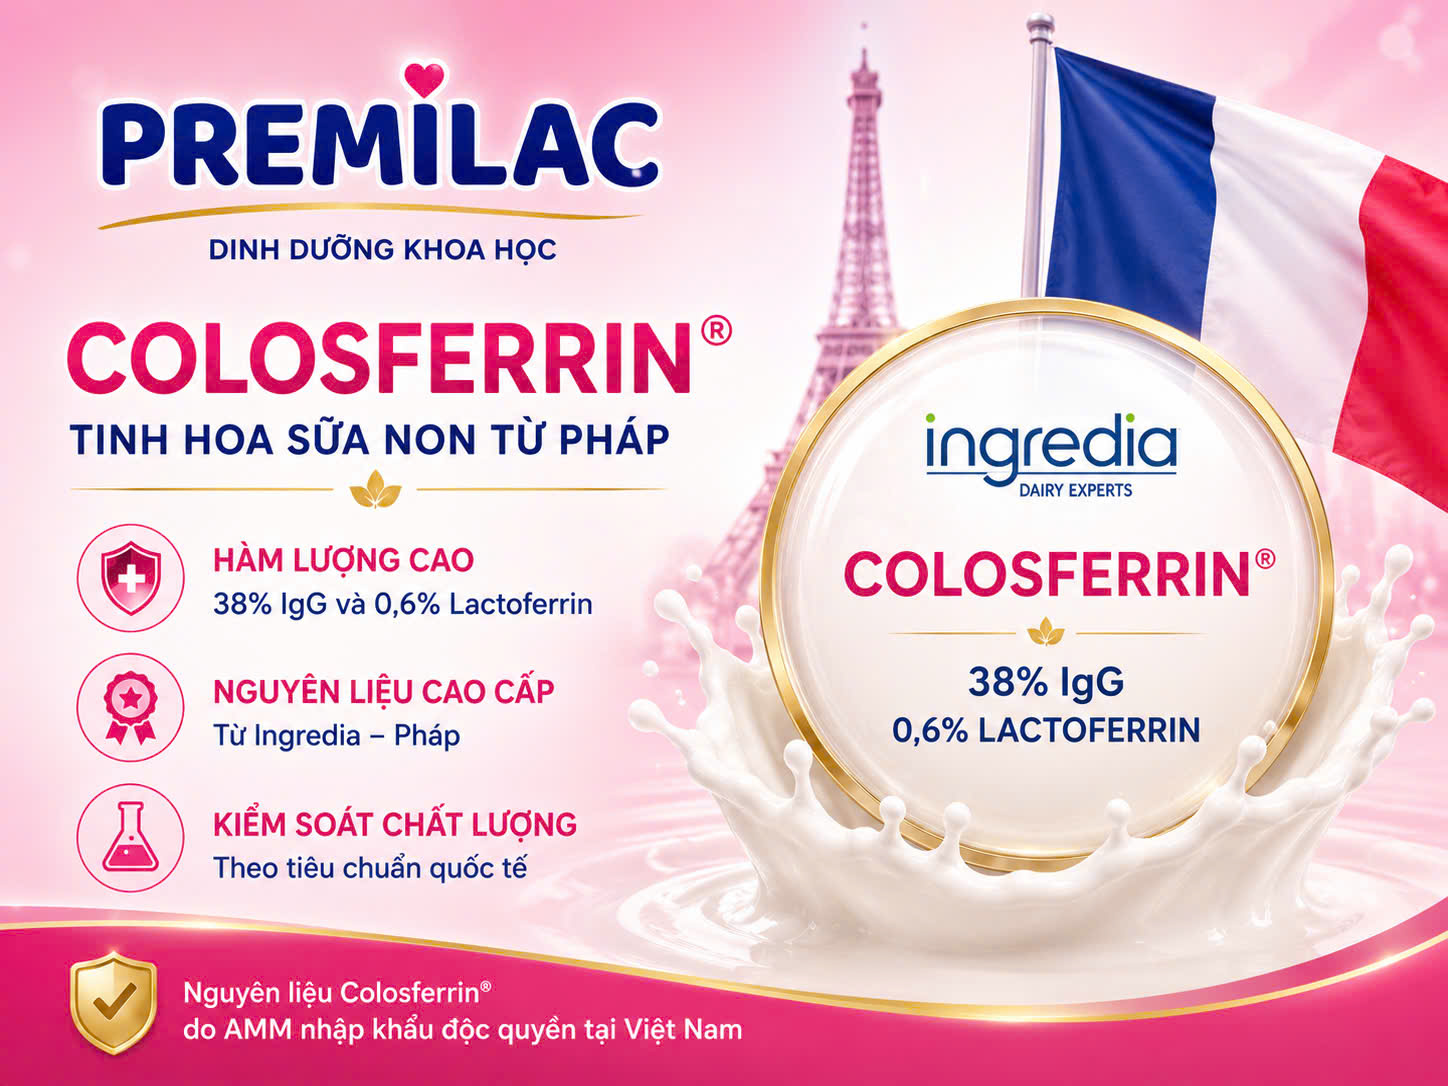
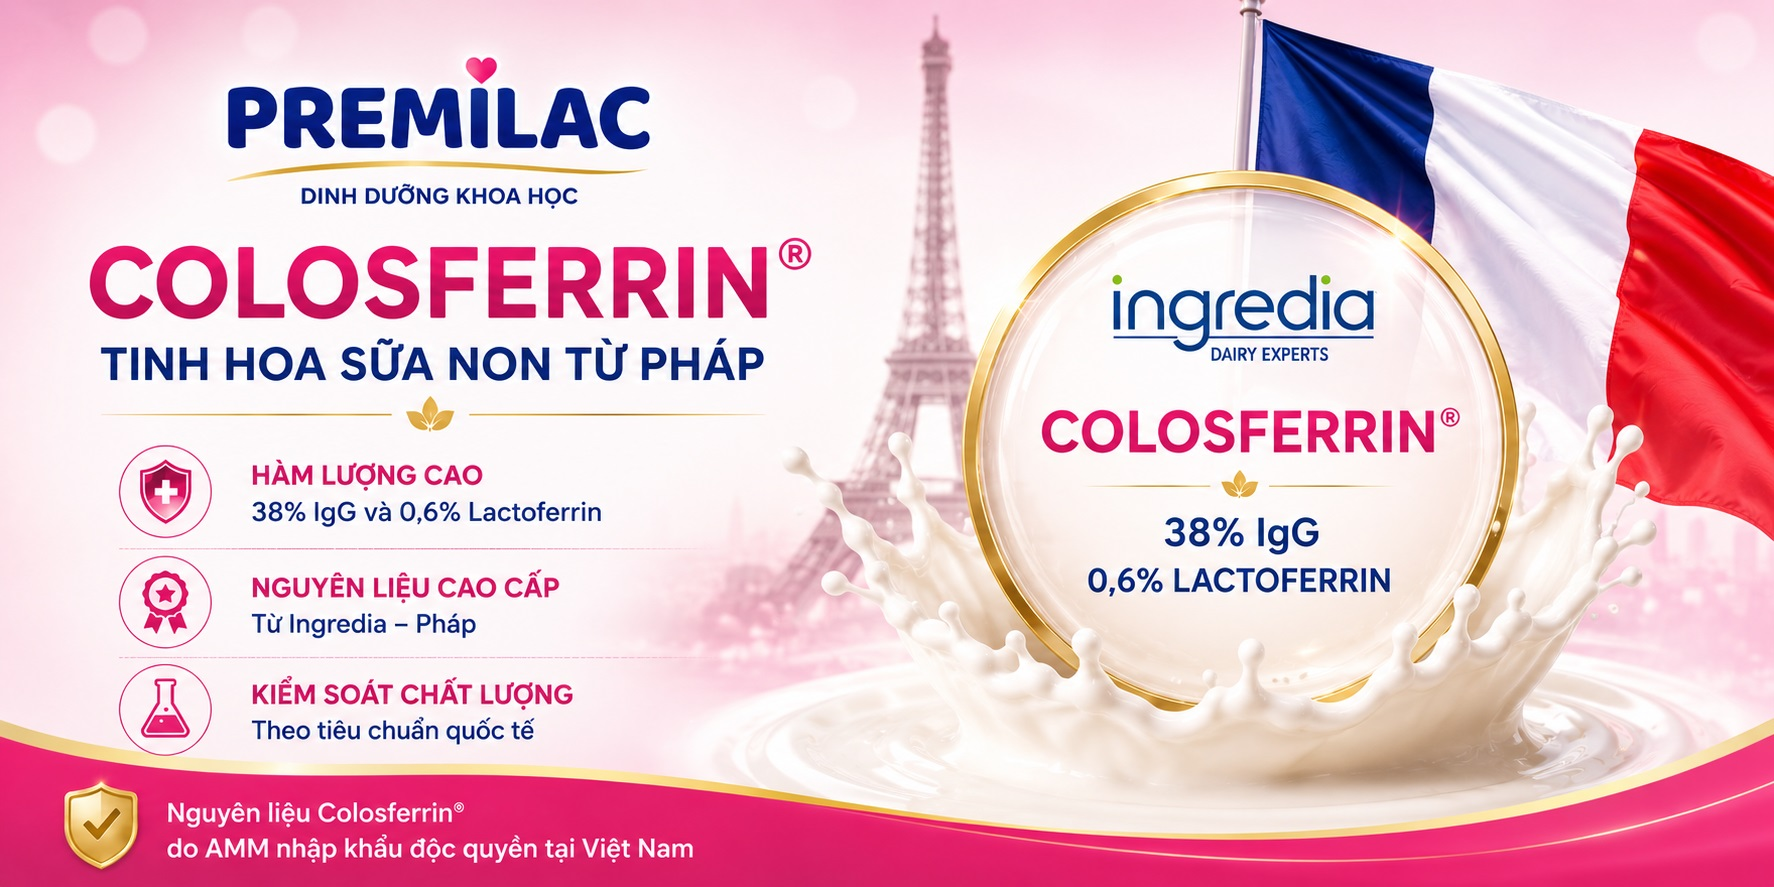
Add files via upload

diff --git a/index.html b/index.html
@@ -1303,6 +1303,101 @@ footer.footer-bg-v6 .ft-disclaimer{
   }
 }
 
+
+/* ============================================================
+   PREMILAC V11 – NỀN 5, NỀN 6, COLOSFERRIN & FOOTER
+   ============================================================ */
+.section-bg-5{
+  background-image:url("nen-5.png") !important;
+  background-repeat:no-repeat !important;
+  background-size:cover !important;
+  background-position:center center !important;
+}
+.section-bg-6{
+  background-image:url("nen-6.png") !important;
+  background-repeat:no-repeat !important;
+  background-size:cover !important;
+  background-position:center center !important;
+}
+
+/* Sữa non Colosferrin: 2 dòng gọn, ảnh lớn hơn */
+.colosferrin-section .two-col{
+  grid-template-columns:minmax(0,.88fr) minmax(480px,1.12fr) !important;
+  gap:46px !important;
+}
+.colosferrin-section .colosferrin-copy h2{
+  margin:0 0 24px !important;
+  white-space:normal !important;
+  text-transform:uppercase;
+}
+.colosferrin-title-main{
+  display:block;
+  color:#173fa4;
+  font-size:clamp(27px,2.5vw,36px);
+  font-weight:900;
+  line-height:1.16;
+}
+.colosferrin-title-sub{
+  display:block;
+  margin-top:8px;
+  color:var(--red);
+  font-size:clamp(20px,1.9vw,27px);
+  font-weight:900;
+  line-height:1.24;
+}
+.colosferrin-section .col-img{
+  width:100%;
+  max-width:570px;
+  justify-self:end;
+  border-radius:24px;
+}
+.colosferrin-section .col-img img{
+  width:100%;
+  height:auto;
+  aspect-ratio:1/1;
+  object-fit:cover;
+  object-position:center;
+}
+
+/* Hai phần kiểm nghiệm dùng hai nền riêng */
+.quality-main-section{
+  background-image:url("nen-5.png") !important;
+}
+.quality-cert-section{
+  background-image:url("nen-6.png") !important;
+}
+
+/* Footer sau khi bỏ email và ghi chú */
+.footer-bg-v6 .ft-brand strong{
+  color:var(--dark) !important;
+}
+.footer-bg-v6 .ft-brand p,
+.footer-bg-v6 .ft-brand a{
+  color:#596273 !important;
+}
+.ft-disclaimer{
+  display:none !important;
+}
+
+@media(max-width:900px){
+  .colosferrin-section .two-col{
+    grid-template-columns:1fr !important;
+    gap:28px !important;
+  }
+  .colosferrin-section .col-img{
+    max-width:620px;
+    justify-self:center;
+  }
+}
+@media(max-width:600px){
+  .colosferrin-title-main{
+    font-size:26px;
+  }
+  .colosferrin-title-sub{
+    font-size:20px;
+  }
+}
+
 </style>
 </head>
 <body>
@@ -1419,7 +1514,10 @@ footer.footer-bg-v6 .ft-disclaimer{
   <div class="sec-inner">
     <div class="two-col">
       <div class="col-txt colosferrin-copy">
-        <h2>COLOSFERRIN – <em>TINH HOA SỮA NON TỪ PHÁP</em></h2>
+        <h2>
+          <span class="colosferrin-title-main">SỮA NON COLOSFERRIN</span>
+          <span class="colosferrin-title-sub">TINH HOA SỮA NON TỪ PHÁP</span>
+        </h2>
         <p>Sữa bột Premilac ứng dụng Colosferrin – nguyên liệu sữa non cao cấp do AMM nhập khẩu độc quyền trực tiếp từ Ingredia Group (Pháp), một trong những doanh nghiệp hàng đầu với nhiều năm kinh nghiệm trong nghiên cứu và sản xuất các nguyên liệu sữa chất lượng cao.</p>
         <p>Được sản xuất bằng công nghệ Microfiltration Technology (vi lọc không sử dụng nhiệt), Colosferrin giúp bảo toàn các thành phần có hoạt tính sinh học trong sữa non. Với 38% IgG và 0,6% Lactoferrin, Colosferrin là một trong những thành phần được Premilac lựa chọn để phát triển các công thức dinh dưỡng dành cho trẻ nhỏ.</p>
         <p>Việc ứng dụng Colosferrin thể hiện định hướng của Premilac trong việc lựa chọn những nguyên liệu chất lượng, có nguồn gốc rõ ràng và được phát triển trên nền tảng khoa học, nhằm mang đến các sản phẩm dinh dưỡng đáng tin cậy cho người tiêu dùng.</p>
@@ -1445,7 +1543,7 @@ footer.footer-bg-v6 .ft-disclaimer{
 </section>
 
 <!-- 5. KIỂM NGHIỆM -->
-<section class="sec section-bg section-bg-4 quality-main-section" id="kiem-nghiem">
+<section class="sec section-bg section-bg-5 quality-main-section" id="kiem-nghiem">
   <div class="sec-inner">
     <div class="quality-story">
       <div class="quality-copy">
@@ -1464,10 +1562,11 @@ footer.footer-bg-v6 .ft-disclaimer{
       <div class="quality-image">
         <img src="kiem-nghiem-chuyen-gia.png" alt="Chuyên gia kiểm nghiệm sản phẩm Premilac">
       </div>
+    </div>
   </div>
 </section>
 
-<section class="sec section-bg section-bg-4 quality-cert-section" aria-label="Phiếu kiểm nghiệm sản phẩm Premilac">
+<section class="sec section-bg section-bg-6 quality-cert-section" aria-label="Phiếu kiểm nghiệm sản phẩm Premilac">
   <div class="sec-inner">
     <div class="test-carousel-shell">
       <button class="test-nav-v2 prev" type="button" aria-label="Phiếu trước" onclick="moveTestCarousel(-1)">‹</button>
@@ -1595,10 +1694,9 @@ footer.footer-bg-v6 .ft-disclaimer{
   <div class="ft-inner">
     <div class="ft-brand">
[1 lines of base64/hex data omitted]
-      <p><strong style="color:#fff">Công Ty TNHH Dinh Dưỡng Premilac Việt Nam</strong></p>
-      <p>Cụm Kho Số 8 Đền Lừ, Phường Hoàng Mai, TP Hà Nội, Việt Nam</p>
+      <p><strong style="color:#fff">CÔNG TY TNHH THƯƠNG MẠI DINH DƯỠNG AN PHÁT</strong></p>
+      <p>Cụm kho số 8 Đền Lừ, Phường Tương Mai, Thành phố Hà Nội, Việt Nam</p>
       <p style="margin-top:8px"><a href="tel:[phone redacted]" style="color:rgba(255,255,255,.6)">Hotline: [phone redacted]</a></p>
-      <p><a href="mailto:[email redacted]" style="color:rgba(255,255,255,.6)">[email redacted]</a></p>
     </div>
     <div class="ft-col">
       <h4>Dịch Vụ Khách Hàng</h4>
@@ -1622,9 +1720,8 @@ footer.footer-bg-v6 .ft-disclaimer{
     </div>
   </div>
   <div class="ft-bottom">
-    <span>© 2026 Công Ty TNHH Dinh Dưỡng Premilac Việt Nam</span>
+    <span>© 2026 CÔNG TY TNHH THƯƠNG MẠI DINH DƯỠNG AN PHÁT</span>
   </div>
-  <p class="ft-disclaimer">Sản phẩm này không phải là thuốc và không có tác dụng thay thế thuốc chữa bệnh. Kết quả kiểm nghiệm là thông tin tham khảo về thành phần sản phẩm tại thời điểm kiểm nghiệm, không phải giấy chứng nhận chất lượng sản phẩm. Bảo hiểm trách nhiệm sản phẩm áp dụng theo phạm vi và điều kiện hợp đồng bảo hiểm đã ký kết với ABIC.</p>
 </footer>
 
 <!-- FLOAT BUTTONS -->